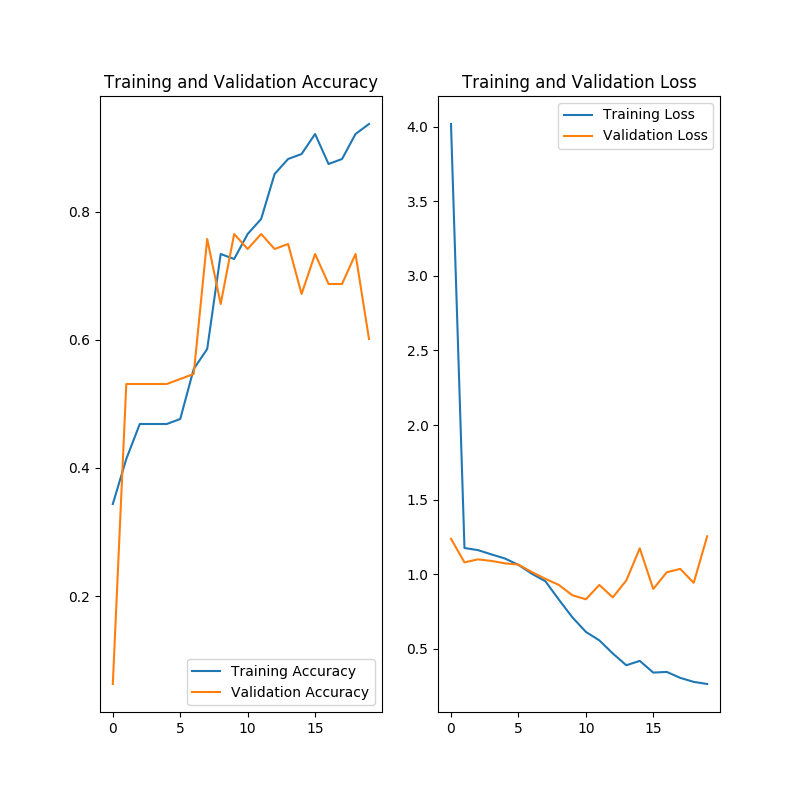
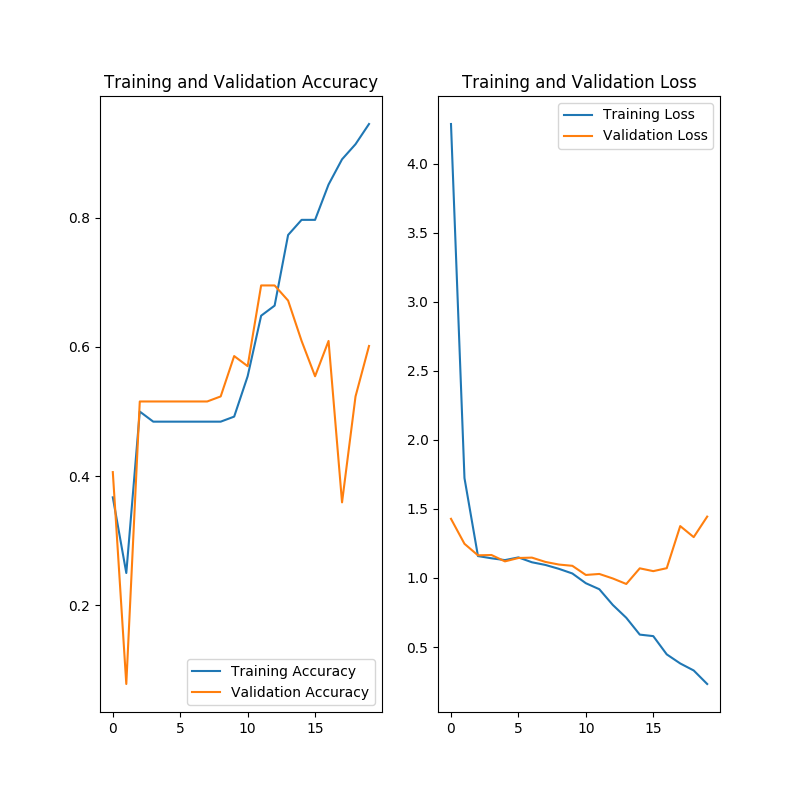
feat: data augmentation

diff --git a/lib/ImageLoader.py b/lib/ImageLoader.py
@@ -34,14 +34,27 @@ class ImageLoader:
     def process_path(self, file_path):
         label = self.get_label(file_path)
         # load the raw data from the file as a string
+
         img = tf.io.read_file(file_path)
         img = self.decode_img(img)
+
+        return img, label
+
+    def process_path_with_data_augmentation(self, file_path):
+        label = self.get_label(file_path)
+        # load the raw data from the file as a string
+        img = tf.io.read_file(file_path)
+        img = self.decode_img(img)
+
+        img = tf.image.random_flip_left_right(img)
+        img = tf.image.random_flip_up_down(img)
+
         return img, label
 
     def generate_training_dataset(self, path, batch_size, shuffle_buffer_size=1000):
         list_ds = tf.data.Dataset.list_files(str(path / '*/*.jpeg'))
 
-        ds = list_ds.map(self.process_path, num_parallel_calls=AUTOTUNE)
+        ds = list_ds.map(self.process_path_with_data_augmentation, num_parallel_calls=AUTOTUNE)
 
         ds = ds.shuffle(buffer_size=shuffle_buffer_size)
 

diff --git a/lib/Model.py b/lib/Model.py
@@ -22,7 +22,7 @@ class Model:
             layers.Conv2D(16, 3, kernel_regularizer=regularizers.l2(0.0001),
                           padding='same', activation='relu', input_shape=(image_height, image_width, 3)))
         self.model.add(layers.MaxPooling2D())
-        self.model.add(layers.Dropout(0.4))
+        self.model.add(layers.Dropout(0.3))
 
         self.model.add(layers.Conv2D(32, 3, kernel_regularizer=regularizers.l2(0.0001),
                                      padding='same', activation='relu'))
@@ -31,7 +31,7 @@ class Model:
         self.model.add(layers.Conv2D(64, 3, kernel_regularizer=regularizers.l2(0.0001),
                                      padding='same', activation='relu'))
         self.model.add(layers.MaxPooling2D())
-        self.model.add(layers.Dropout(0.4))
+        self.model.add(layers.Dropout(0.3))
 
         self.model.add(layers.Flatten())
         self.model.add(layers.Dense(512, kernel_regularizer=regularizers.l2(0.0001),
